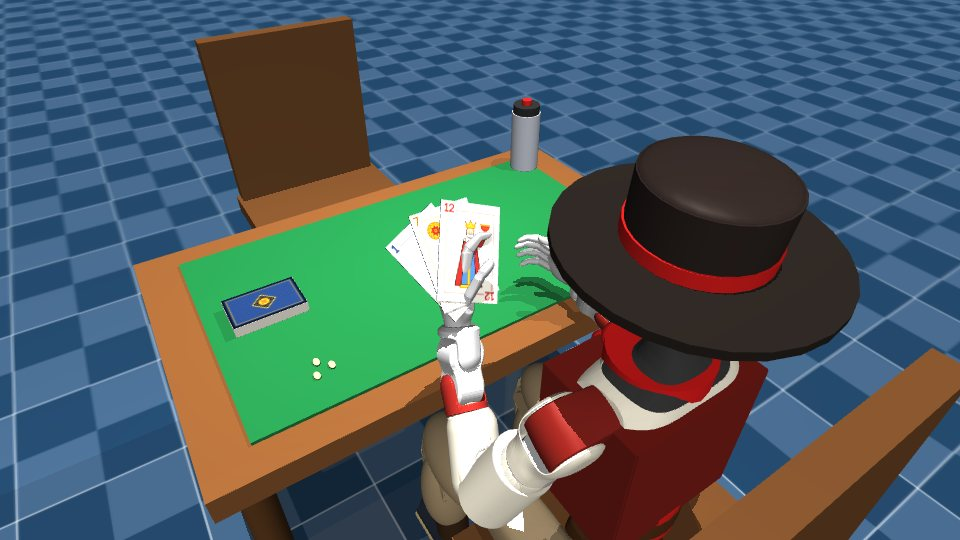
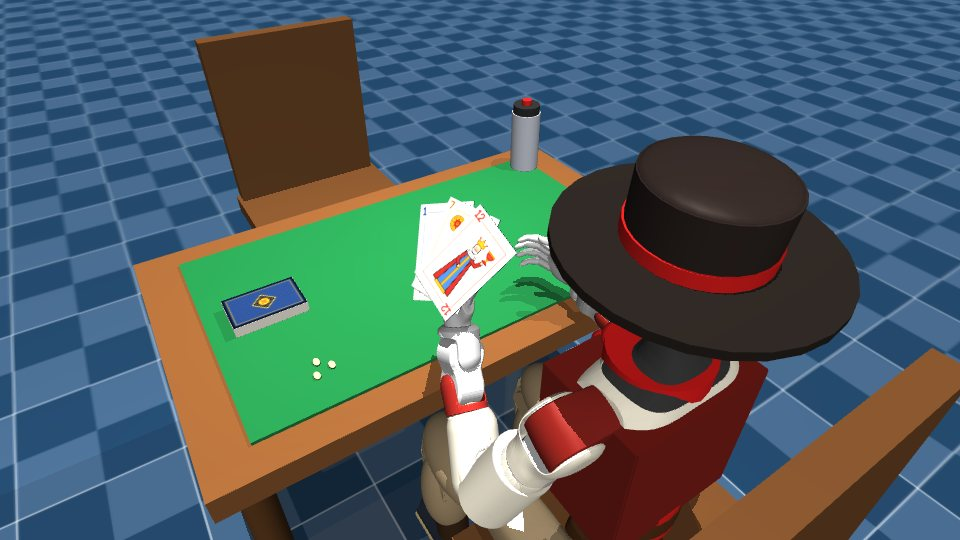
Show the robot's three held cards from the overview camera and reconnect the 3D table after a simulator restart
Turn the fan toward the overview camera and bring that camera closer so a human sees three card backs. Reset the robot on a transport error so the next request reconnects and resyncs the table. Retitle ADR 0067 around the kinematic cards. Make the card test deterministic.

Changed region(s): [[0.4062, 0.3556, 0.5625, 0.6222], [0.4375, 0.6519, 0.4688, 0.7111], [0.4375, 0.8593, 0.4688, 0.8889]]

diff --git a/proyecto/test_cartas_3d.py b/proyecto/test_cartas_3d.py
@@ -3,6 +3,7 @@
 from __future__ import annotations
 
 import importlib.util
+import random
 import tempfile
 import time
 import unittest
@@ -358,9 +359,9 @@ class TestPartidaMueveLasCartas3D(unittest.TestCase):
     def test_reparto_y_jugadas_llegan_a_la_mesa_en_orden(self):
         with tempfile.TemporaryDirectory() as tmp:
             robot_falso = MagicMock()
+            random.seed(1)
             partida = PartidaTruco(robot=robot_falso, historial_path=str(Path(tmp) / "h.json"))
-            if not partida.es_mano_humano or partida.turno_carta != "humano":
-                self.skipTest("la primera mano siempre es del humano")
+            self.assertTrue(partida.es_mano_humano and partida.turno_carta == "humano")
             carta = partida.cartas_humano_disponibles[0]
             partida.jugar_carta_humano({"valor": carta["valor"], "palo": carta["palo"]})
             esperadas = 2 + (1 if any(m["quien"] == "robot" for m in partida.mesa) else 0)
@@ -390,3 +391,38 @@ class TestPartidaMueveLasCartas3D(unittest.TestCase):
 
 if __name__ == "__main__":
     unittest.main()
+
+
+class TestServidorSeReconectaAlSimulador(unittest.TestCase):
+    def test_reiniciar_el_simulador_reconstruye_la_mesa_3d(self):
+        import servidor_truco
+
+        class SimCaido(Exception):
+            pass
+        SimCaido.__name__ = "ErrorTransporte"
+
+        with tempfile.TemporaryDirectory() as tmp:
+            viejo = MagicMock()
+            viejo.tirar_carta.side_effect = SimCaido("socket cerrado")
+            partida = PartidaTruco(robot=viejo, historial_path=str(Path(tmp) / "h.json"))
+            servidor = servidor_truco.ServidorTruco(("127.0.0.1", 0), partida, False)
+            try:
+                self.assertIs(servidor.asegurar_robot(), viejo)
+                partida._mesa_3d("tirar_carta", {"valor": 1, "palo": "Espada"}, 2)
+                limite = time.monotonic() + 5
+                while servidor.robot is not None and time.monotonic() < limite:
+                    time.sleep(0.02)
+                self.assertIsNone(servidor.robot)
+                self.assertIsNone(partida.robot)
+
+                nuevo = MagicMock()
+                with patch.object(servidor_truco, "Robot", return_value=nuevo):
+                    self.assertIs(servidor.asegurar_robot(), nuevo)
+                self.assertIs(partida.robot, nuevo)
+                limite = time.monotonic() + 5
+                while not nuevo.repartir_cartas.called and time.monotonic() < limite:
+                    time.sleep(0.02)
+                nuevo.modo_mesa.assert_called_with("humano")
+                nuevo.repartir_cartas.assert_called_once()
+            finally:
+                servidor.server_close()

diff --git a/proyecto/partida_truco.py b/proyecto/partida_truco.py
@@ -25,6 +25,12 @@ from phase1_network import NetworkPolicy
 from symmetric_engine import bluff as is_bluff
 
 
+def _es_error_de_conexion(error: Exception) -> bool:
+    """True when `error` means the simulator connection is gone (by name, so
+    this module does not import the simulator)."""
+    return isinstance(error, OSError) or type(error).__name__ in ("ErrorTransporte", "NoHaySimulador")
+
+
 class PartidaTruco:
     def __init__(self, robot=None, meta_puntos: int = 15, historial_path: Optional[str] = None,
                  rng: random.Random | None = None, champions_dir=None):
@@ -171,8 +177,16 @@ class PartidaTruco:
                 robot = self.robot
                 if robot is not None:
                     getattr(robot, metodo)(*args)
-            except Exception:
-                pass
+            except Exception as error:
+                if _es_error_de_conexion(error):
+                    self._perder_robot()
+
+    def _perder_robot(self) -> None:
+        """The simulator went away: forget it so the next request reconnects."""
+        self.robot = None
+        aviso = getattr(self, "al_perder_robot", None)
+        if aviso is not None:
+            aviso()
 
     def sincronizar_mesa_3d(self) -> None:
         """Rebuilds the current hand on the 3D table (e.g. after connecting)."""

diff --git a/entorno/sim/escena_cartas.py b/entorno/sim/escena_cartas.py
@@ -28,6 +28,7 @@ OFFSET_ART = 7            # qpos index of the first joint (after the free base)
 # Where the fan is held, in the seat's frame (x forward, y left, z up).
 MANO_ABANICO = (0.25, 0.13, 0.89)
 INCLINACION_ABANICO = math.radians(38)     # face tilted up toward the eyes
+GIRO_ABANICO = math.radians(75)            # fan turned toward the side camera, backs visible
 APERTURA_ABANICO = math.radians(24)        # angle between neighbouring cards
 ALTURA_SOBRE_MESA = 0.045                   # palm above the slot when laying a card
 ELEVACION_VIAJE = 0.07                      # extra lift halfway to the table
@@ -73,7 +74,8 @@ def orientacion_abanico(asiento: int) -> np.ndarray:
     normal = np.array([-s * math.cos(a), 0.0, math.sin(a)])     # toward the owner
     arriba = np.array([s * math.sin(a), 0.0, math.cos(a)])
     derecha = np.cross(arriba, normal)
-    return np.column_stack([derecha, arriba, normal])
+    base = np.column_stack([derecha, arriba, normal])
+    return _rot_z(-s * GIRO_ABANICO) @ base
 
 
 def orientacion_mesa(asiento: int, baza: int) -> np.ndarray:

diff --git a/entorno/sim/capturas.py b/entorno/sim/capturas.py
@@ -86,6 +86,15 @@ def capturar(destino: str, camaras=C.CAMARAS, ancho: int = 960, alto: int = 540,
         f.mesa.jugar(2, humano[k])
         f.correr(r.alcanzar + r.llevar + r.volver + 0.6)
     momento("5_tres_bazas")
+
+    # Human vs robot: the only camera allowed is the overview, and from there
+    # the robot must visibly hold three cards (backs toward the human).
+    f.mesa.poner_modo(C.MODO_HUMANO)
+    f.mesa.repartir({1: robot})
+    f.correr(1.5)
+    ruta = os.path.join(destino, f"6_modo_humano_{C.CAMARA_GENERAL}.{extension}")
+    _guardar(f.foto(C.CAMARA_GENERAL), ruta)
+    rutas.append(ruta)
     return rutas
 
 

diff --git a/proyecto/servidor_truco.py b/proyecto/servidor_truco.py
@@ -42,6 +42,16 @@ class ServidorTruco(ThreadingHTTPServer):
         self.agente = AgenteRobot(self.robot)
         self.detector = DetectorCartas()
         self.error_conexion = None
+        partida.al_perder_robot = self.perder_robot
+
+    def perder_robot(self):
+        """The simulator connection died: drop it so the next request reconnects."""
+        with self.lock:
+            self.robot = None
+            self.partida.robot = None
+            self.agente.robot = None
+            self.agente.ejecutor.robot = None
+            self.error_conexion = None
 
     def asegurar_robot(self):
         with self.lock:

diff --git a/entorno/sim/cartas.py b/entorno/sim/cartas.py
@@ -149,7 +149,7 @@ def _camara_detras(asiento: int) -> tuple[tuple, tuple]:
 
 
 POSICION_CAMARAS = {
-    CAMARA_GENERAL: ((MESA_X + 0.18, -1.10, 1.62), (MESA_X - 0.06, 0.0, 0.72)),
+    CAMARA_GENERAL: ((MESA_X + 0.10, -0.95, 1.45), (MESA_X - 0.16, 0.0, 0.80)),
     CAMARA_DETRAS[1]: _camara_detras(1),
     CAMARA_DETRAS[2]: _camara_detras(2),
 }

diff --git a/docs/adr/0067-own-deck-and-kinematic-cards-in-3d.md b/docs/adr/0067-own-deck-and-kinematic-cards-in-3d.md
@@ -1,18 +1,18 @@
-# A project-owned deck, and kinematic Truco cards on the 3D table
+# Kinematic Truco cards on the 3D table
 
 Status: accepted (2026-11-11). Step 1 of the 3D card and arm work; step 2 adds a second G1 in seat 2, step 3 tunes pacing.
 
 ## Context
 
-The web's 40 card images were cut from a template image of unknown origin (`template_naipes.jpg`), so the project could not say it owned them. The MuJoCo scene showed the robot at the table, but the cards on it were two plain white boxes that never changed: the 3D view did not show the match being played.
+The MuJoCo scene showed the robot at the table, but the cards on it were two plain white boxes that never changed: the 3D view did not show the match being played.
 
 ## Decision
 
-**Deck.** `proyecto/generar_baraja.py` draws all 40 cards and a card back with Pillow from code alone: no template, no font files (the index digits are a small stroke font). Traditional Spanish layout: pip layouts for 1-7, simple original figures for sota, caballo and rey, corner indices, and the broken frame that tells the suit (oros none, copas one break, espadas two, bastos three). Output is 524 x 800, the web's 262/400 ratio, under the same file names, so the web is unchanged. The template image is deleted.
+**Deck.** Builds on ADR 0065 (project-owned deck). Implementation specifics: `proyecto/generar_baraja.py` uses Pillow only, with no font files (a small stroke font draws the indices), and writes 524 x 800 PNGs under the web's existing file names, so the web is unchanged.
 
 **Cards in 3D.** The same PNGs texture thin card meshes in the scene. Cards are mocap bodies moved kinematically every frame, never grasped physically:
 
-- the robot holds its three cards fanned in the left hand, faces toward itself;
+- the robot holds its three cards fanned in the left hand, faces toward itself and the fan turned about 75 degrees toward the overview camera, so a human at the table sees three card backs rather than edge-on slivers (the overview camera sits closer to the table for the same reason);
 - to play, the right hand reaches the chosen card, the card rides on the right palm, and it is laid face up in the next table slot of the robot's side; earlier bazas stay in a row;
 - a human's card (there is no human body) slides in from the human's edge to that side's slot;
 - a new hand resets every card.
@@ -27,7 +27,7 @@ Arm poses come from a small damped least-squares IK solved once at startup, then
 
 ## Consequences
 
-- The deck is the project's own and can be regenerated on any machine with the same pixels. Pillow joins `requirements.txt`, only to redraw the deck and to take screenshots; the PNGs are committed.
+- Pillow joins `requirements.txt`, only to redraw the deck and to take screenshots; the PNGs are committed.
 - `py -3 -m sim.capturas <dir> jpg` (from `entorno/`) renders each camera at key moments offscreen with the live pose code; `docs/screenshots/step1/` holds the reviewed set.
 - The robot's left arm keeps the holding pose while it has cards, so gestures only move the right arm then.
 - Card faces in the robot's hand are hidden in human mode even from a camera behind the robot that a later mode might allow; robot-vs-robot mode shows them.
